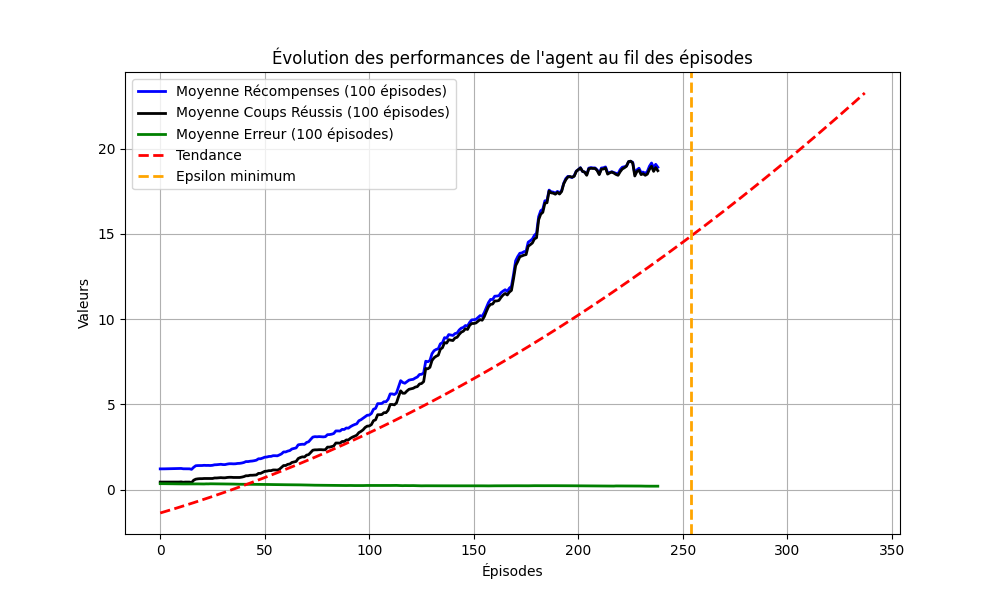
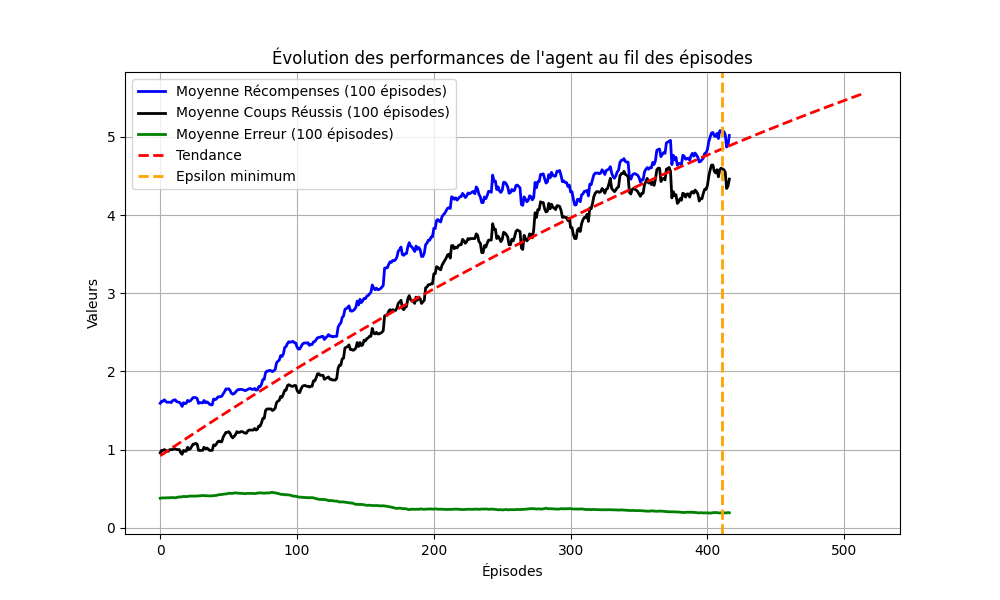
delay of 30 frame

diff --git a/agent.py b/agent.py
@@ -100,18 +100,19 @@ class ReplayBuffer:
 
 class DeepQNetwork(nn.Module):
 	def __init__(self, input_dim, output_dim, lr, fc1_dims=64, fc2_dims=64):
-		super(DeepQNetwork, self).__init__()
-		self.fc1 = nn.Linear(input_dim, fc1_dims)
-		self.fc2 = nn.Linear(fc1_dims, fc2_dims)
-		self.fc3 = nn.Linear(fc2_dims, output_dim)
+		super().__init__()
+		self.network = nn.Sequential(
+		nn.Linear(input_dim, fc1_dims),
+		nn.ReLU(),
+		nn.Linear(fc1_dims, fc2_dims),
+		nn.ReLU(),
+		nn.Linear(fc2_dims, output_dim))
 
 		self.loss = nn.SmoothL1Loss(reduction='none')
 		self.optimizer = optim.Adam(self.parameters(), lr=lr)
 
 	def forward(self, state):
-		x = T.relu(self.fc1(state))
-		x = T.relu(self.fc2(x))
-		return self.fc3(x)
+		return self.network(state)
 
 class Agent():
 	def __init__(self, input_dim, output_dim, batch_size=64):

diff --git a/main.py b/main.py
@@ -118,7 +118,7 @@ if __name__ == "__main__":
 	signal.signal(signal.SIGINT, stop)
 	signal.signal(signal.SIGTERM, stop)
 
-	delay = 20
+	delay = 30
 	episodes = 5000
 
 	game = trainGame(600, 800, visual=False, delay=delay, stop=50)
